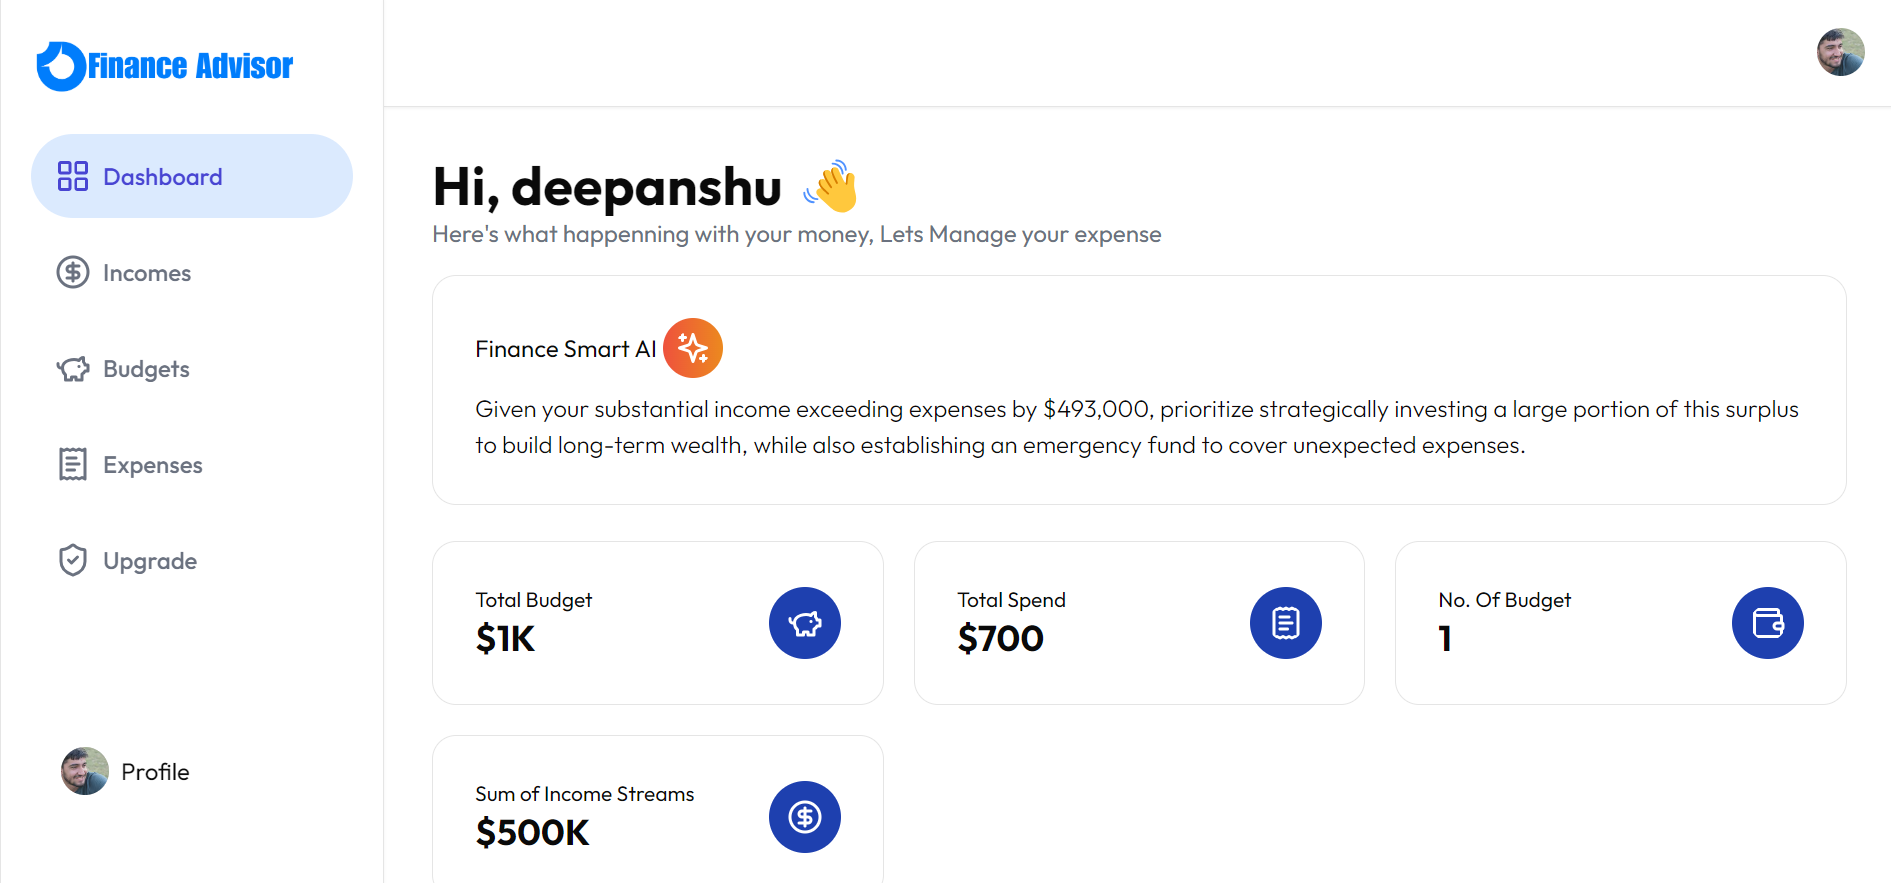
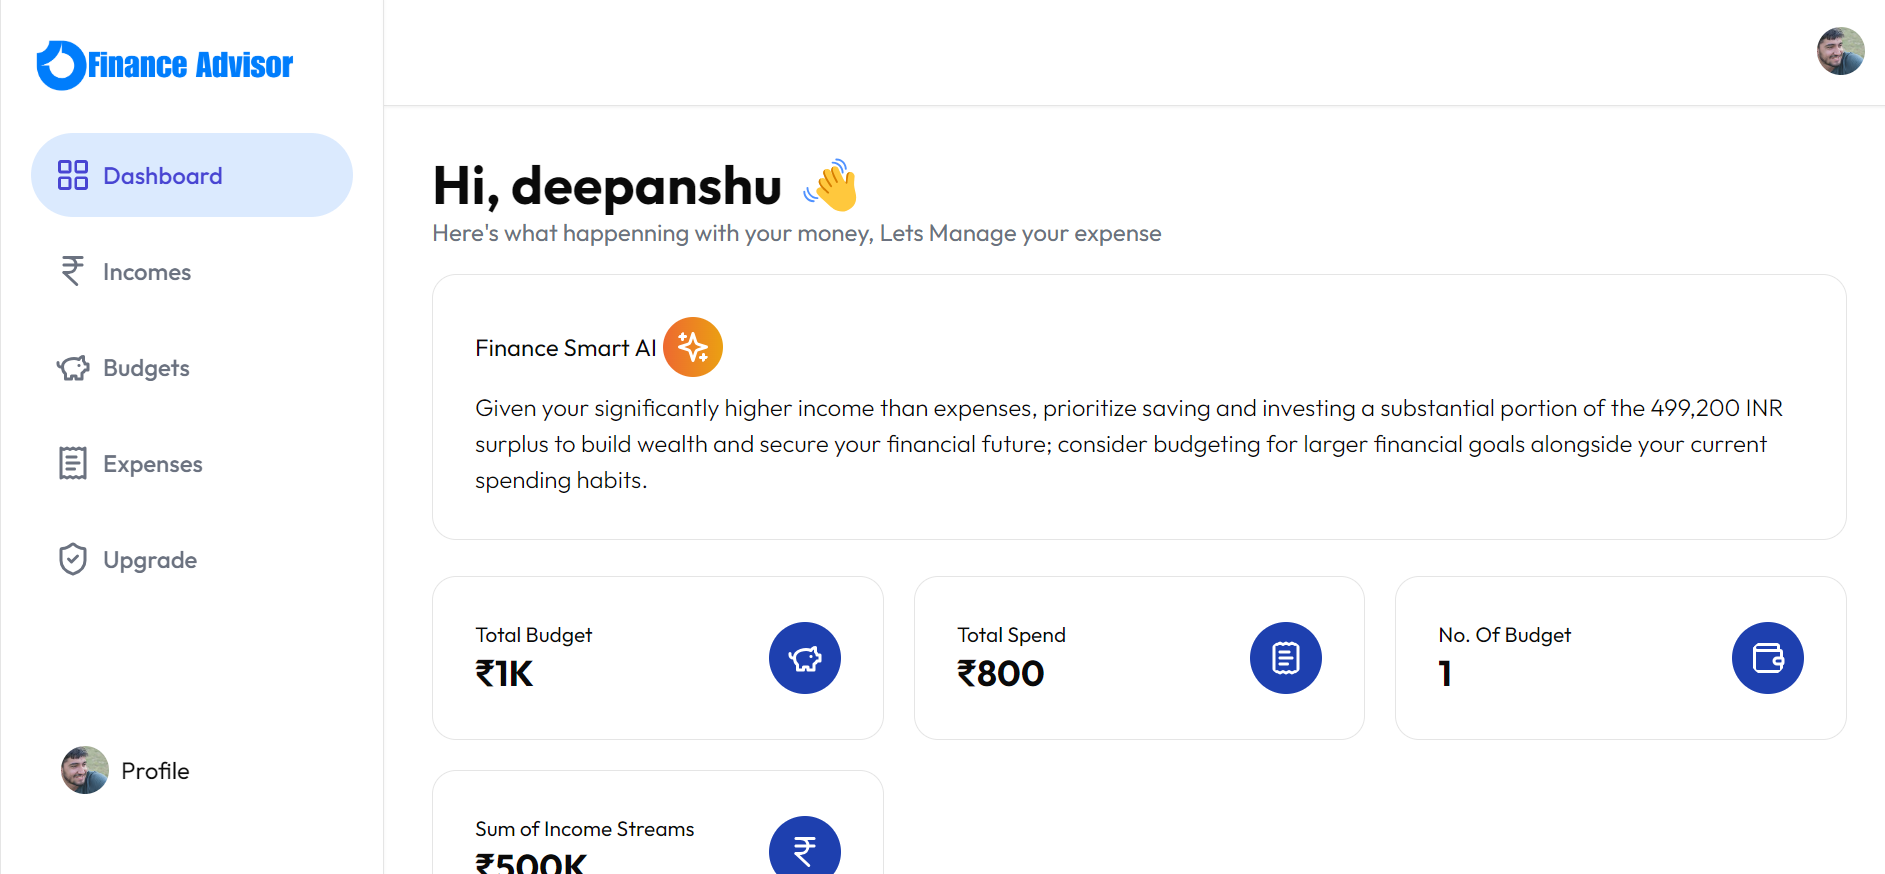
update

diff --git a/app/(routes)/dashboard/_components/CardInfo.jsx b/app/(routes)/dashboard/_components/CardInfo.jsx
@@ -1,7 +1,7 @@
 import formatNumber from '@/utils';
 import getFinancialAdvice from '@/utils/getFinancialAdvice';
 import {
-	CircleDollarSign,
+	IndianRupee,
 	PiggyBank,
 	ReceiptText,
 	Sparkles,
@@ -76,7 +76,7 @@ function CardInfo({ budgetList, incomeList }) {
 							<div>
 								<h2 className="text-sm">Total Budget</h2>
 								<h2 className="text-2xl font-bold">
-									${formatNumber(totalBudget)}
+								₹{formatNumber(totalBudget)}
 								</h2>
 							</div>
 							<PiggyBank className="w-12 h-12 p-3 text-white bg-blue-800 rounded-full" />
@@ -85,7 +85,7 @@ function CardInfo({ budgetList, incomeList }) {
 							<div>
 								<h2 className="text-sm">Total Spend</h2>
 								<h2 className="text-2xl font-bold">
-									${formatNumber(totalSpend)}
+								₹{formatNumber(totalSpend)}
 								</h2>
 							</div>
 							<ReceiptText className="w-12 h-12 p-3 text-white bg-blue-800 rounded-full" />
@@ -101,10 +101,10 @@ function CardInfo({ budgetList, incomeList }) {
 							<div>
 								<h2 className="text-sm">Sum of Income Streams</h2>
 								<h2 className="text-2xl font-bold">
-									${formatNumber(totalIncome)}
+								₹{formatNumber(totalIncome)}
 								</h2>
 							</div>
-							<CircleDollarSign className="w-12 h-12 p-3 text-white bg-blue-800 rounded-full" />
+							<IndianRupee className="w-12 h-12 p-3 text-white bg-blue-800 rounded-full" />
 						</div>
 					</div>
 				</div>

diff --git a/app/(routes)/dashboard/budgets/_components/BudgetItem.jsx b/app/(routes)/dashboard/budgets/_components/BudgetItem.jsx
@@ -26,16 +26,16 @@ function BudgetItem({ budget }) {
               <h2 className="text-sm text-gray-500">{budget.totalItem} Item</h2>
             </div>
           </div>
-          <h2 className="font-bold text-primary text-lg"> ${budget.amount}</h2>
+          <h2 className="font-bold text-primary text-lg"> ₹{budget.amount}</h2>
         </div>
 
         <div className="mt-5">
           <div className="flex items-center justify-between mb-3">
             <h2 className="text-xs text-slate-400">
-              ${budget.totalSpend ? budget.totalSpend : 0} Spend
+            ₹{budget.totalSpend ? budget.totalSpend : 0} Spend
             </h2>
             <h2 className="text-xs text-slate-400">
-              ${budget.amount - budget.totalSpend} Remaining
+            ₹{budget.amount - budget.totalSpend} Remaining
             </h2>
           </div>
           <div

diff --git a/app/(routes)/dashboard/upgrade/page.jsx b/app/(routes)/dashboard/upgrade/page.jsx
@@ -15,7 +15,7 @@ function Upgrade() {
               <p className="mt-2 sm:mt-4">
                 <strong className="text-3xl font-bold text-gray-900 sm:text-4xl">
                   {" "}
-                  30${" "}
+                  ₹ 300{" "}
                 </strong>
 
                 <span className="text-sm font-medium text-gray-700">
@@ -158,7 +158,7 @@ function Upgrade() {
               <p className="mt-2 sm:mt-4">
                 <strong className="text-3xl font-bold text-gray-900 sm:text-4xl">
                   {" "}
-                  20${" "}
+                  ₹ 200{" "}
                 </strong>
 
                 <span className="text-sm font-medium text-gray-700">

diff --git a/app/(routes)/api/get-advice/route.js b/app/(routes)/api/get-advice/route.js
@@ -11,9 +11,9 @@ export async function POST(req) {
 
 	const userPrompt = `
       Based on the following financial data:
-      - Total Budget: ${totalBudget} USD 
-      - Expenses: ${totalSpend} USD 
-      - Incomes: ${totalIncome} USD
+      - Total Budget: ${totalBudget} INR 
+      - Expenses: ${totalSpend} INR 
+      - Incomes: ${totalIncome} INR
       Provide detailed financial advice in 2 sentence to help the user manage their finances more effectively.
     `;
 

diff --git a/app/(routes)/dashboard/incomes/_components/IncomeItem.jsx b/app/(routes)/dashboard/incomes/_components/IncomeItem.jsx
@@ -33,7 +33,7 @@ function IncomeItem({ budget, refreshData }) {
 						{/* <h2 className="text-sm text-gray-500">{budget.totalItem} Item</h2> */}
 					</div>
 				</div>
-				<h2 className="text-lg font-bold text-primary"> ${budget.amount}</h2>
+				<h2 className="text-lg font-bold text-primary"> ₹{budget.amount}</h2>
 			</div>
 			<div
 				className="ml-auto cursor-pointer text-destructive hover:underline"

diff --git a/app/(routes)/dashboard/incomes/_components/CreateIncomes.jsx b/app/(routes)/dashboard/incomes/_components/CreateIncomes.jsx
@@ -91,7 +91,7 @@ function CreateIncomes({ refreshData }) {
                   <h2 className="text-black font-medium my-1">Montly Amount</h2>
                   <Input
                     type="number"
-                    placeholder="e.g. 5000$"
+                    placeholder="e.g. ₹ 5000"
                     onChange={(e) => setAmount(e.target.value)}
                   />
                 </div>

diff --git a/app/(routes)/dashboard/budgets/_components/CreateBudget.jsx b/app/(routes)/dashboard/budgets/_components/CreateBudget.jsx
@@ -91,7 +91,7 @@ function CreateBudget({ refreshData }) {
                   <h2 className="text-black font-medium my-1">Budget Amount</h2>
                   <Input
                     type="number"
-                    placeholder="e.g. 5000$"
+                    placeholder="e.g. ₹ 5000"
                     onChange={(e) => setAmount(e.target.value)}
                   />
                 </div>

diff --git a/app/(routes)/dashboard/expenses/_components/EditBudget.jsx b/app/(routes)/dashboard/expenses/_components/EditBudget.jsx
@@ -94,7 +94,7 @@ function EditBudget({ budgetInfo, refreshData }) {
                   <Input
                     type="number"
                     defaultValue={budgetInfo?.amount}
-                    placeholder="e.g. 5000$"
+                    placeholder="e.g. ₹ 5000"
                     onChange={(e) => setAmount(e.target.value)}
                   />
                 </div>

diff --git a/app/(routes)/dashboard/_components/SideNav.jsx b/app/(routes)/dashboard/_components/SideNav.jsx
@@ -1,6 +1,6 @@
 import { UserButton } from '@clerk/nextjs';
 import {
-	CircleDollarSign,
+	IndianRupee,
 	LayoutGrid,
 	PiggyBank,
 	ReceiptText,
@@ -23,7 +23,7 @@ function SideNav() {
 		{
 			id: 2,
 			name: 'Incomes',
-			icon: CircleDollarSign,
+			icon: IndianRupee,
 			path: '/dashboard/incomes',
 		},
 		{

diff --git a/README.md b/README.md
@@ -1,23 +1,3 @@
-<div align="center">
-  <br />
-    <a href="https://youtu.be/dGHFV_RMGag" target="_blank">
-      <img src="https://i.postimg.cc/tJsYLQcP/test1.jpg" alt="Project Banner">
-    </a>
-  
-  <br />
-
-  <div>
-    <img src="https://img.shields.io/badge/-TypeScript-black?style=for-the-badge&logoColor=white&logo=typescript&color=3178C6" alt="typescript" />
-    <img src="https://img.shields.io/badge/-Next_JS-black?style=for-the-badge&logoColor=white&logo=nextdotjs&color=000000" alt="nextdotjs" />
-    <img src="https://img.shields.io/badge/-Tailwind_CSS-black?style=for-the-badge&logoColor=white&logo=tailwindcss&color=06B6D4" alt="tailwindcss" />
-  </div>
-
-  <h3 align="center">Finan Smart</h3>
-
-   <div align="center">
-     Build this project step by step with our detailed tutorial on <a href="https://www.youtube.com/@albertmends" target="_blank"><b>Your YouTube Channel</b></a>. Join the community!
-    </div>
-</div>
 
 ## 📋 <a name="table">Table of Contents</a>
 
@@ -26,21 +6,13 @@
 3. 🔋 [Features](#features)
 4. 🤸 [Quick Start](#quick-start)
 5. 🕸 [Assets & Code](#snippets)
-6. 🚀 [More](#more)
 
-## 🚨 Tutorial
 
-This repository contains the code corresponding to an in-depth tutorial available on our YouTube channel, <a href="https://www.youtube.com/@albertmends/videos" target="_blank"><b>Code with Albert</b></a>.
-
-If you prefer visual learning, this is the perfect resource for you. Follow our tutorial to learn how to build projects like these step-by-step in a beginner-friendly manner!
 
 ## <a name="introduction">🤖 Introduction</a>
 
 Built with the latest Next.js and TypeScript, Finan Smart is an advanced AI financial advice tool. It allows users to input their income, expenses, and budgets, and receive personalized financial advice based on their financial data. This project is perfect for those looking to learn how to integrate AI-driven insights and financial management into a Next.js application.
 
-If you're getting started and need assistance or face any bugs, join our active Discord community. It's a place where people help each other out.
-
-<a href="https://discord.com/channels/1221368900579754074/1221368901162631243" target="_blank"><img src="https://github.com/sujatagunale/EasyRead/assets/151519281/618f4872-1e10-42da-8213-1d69e486d02e"  /></a>
 
 ## <a name="tech-stack">⚙ Tech Stack</a>
 
@@ -55,7 +27,7 @@ If you're getting started and need assistance or face any bugs, join our active 
 
 👉 **Budget Management**: Enables users to manage their budgets effectively.
 
-👉 **Personalized Financial Advice**: Provides detailed financial advice based on user-specific financial data using OpenAI's GPT-4 model.
+👉 **Personalized Financial Advice**: Provides detailed financial advice based on user-specific financial data using Gemini model.
 
 👉 **Responsive Design**: Ensures a seamless experience across different devices.
 
@@ -71,12 +43,7 @@ Make sure you have the following installed on your machine:
 - [Node.js](https://nodejs.org/en)
 - [npm](https://www.npmjs.com/) (Node Package Manager)
 
-**Cloning the Repository**
 
-```bash
-git clone https://github.com/mendsalbert/ai-finance-trackingt.git
-cd ai-finance-tracking
-```
 
 **Installation**
 
@@ -104,7 +71,7 @@ NEXT_PUBLIC_DATABASE_URL=
 
 ```
 
-Replace the placeholder values with your actual OpenAI credentials. You can obtain these credentials by signing up on the [OpenAI website](https://openai.com/).
+Replace the placeholder values with your actual OpenAI credentials. You can obtain these credentials by signing up on the [Gemini](https://ai.google.dev/).
 
 **Running the Project**
 
@@ -116,8 +83,4 @@ Open [http://localhost:3000](http://localhost:3000) in your browser to view the 
 
 ## <a name="snippets">🕸 Assets & Code</a>
 
-The repository includes all the assets and code you need to get started with Finan Smart. Follow along with our YouTube tutorial for a step-by-step guide.
-
-## <a name="more">🚀 More</a>
-
-For more information and additional resources, check out our YouTube channel and join our Discord community for support and discussions.
+The repository includes all the assets and code you need to get started with Finance Advisor.
